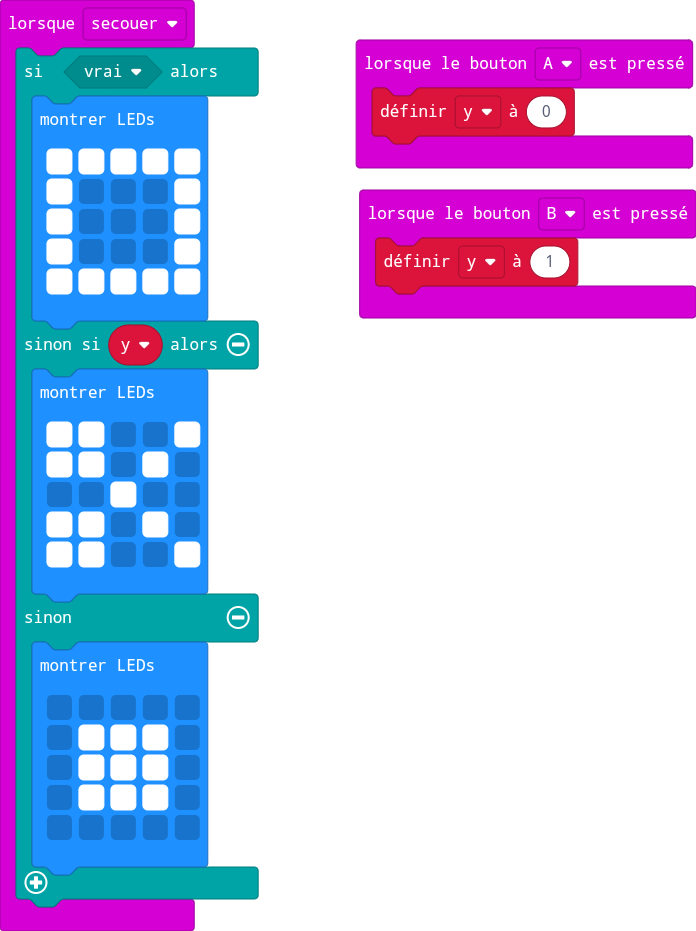
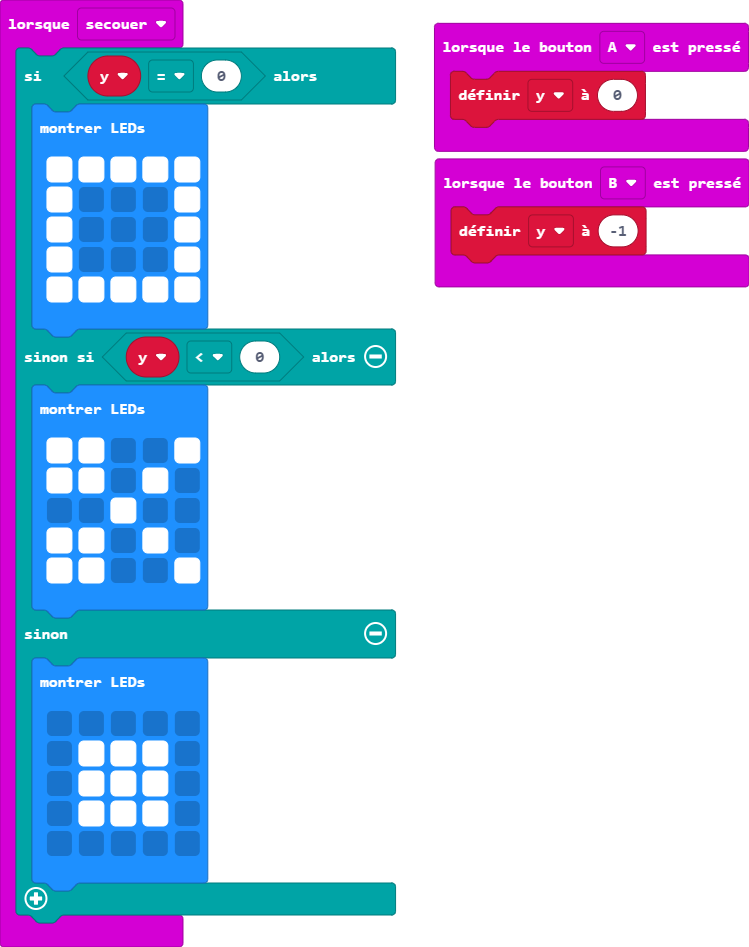
Mise à jour main.blocks, main.ts

Changed region(s): [[0.0, 0.0, 1.0, 0.9968], [0.3621, 0.9033, 0.5431, 0.9656], [0.2414, 0.9656, 0.3017, 1.0]]

diff --git a/main.ts b/main.ts
@@ -3,10 +3,10 @@ input.onButtonPressed(Button.A, function () {
     y = 0
 })
 input.onButtonPressed(Button.B, function () {
-    y = 1
+    y = -1
 })
 input.onGesture(Gesture.Shake, function () {
-    if (true) {
+    if (y == 0) {
         basic.showLeds(`
             # # # # #
             # . . . #
@@ -14,7 +14,7 @@ input.onGesture(Gesture.Shake, function () {
             # . . . #
             # # # # #
             `)
-    } else if (y) {
+    } else if (y < 0) {
         basic.showLeds(`
             # # . . #
             # # . # .
